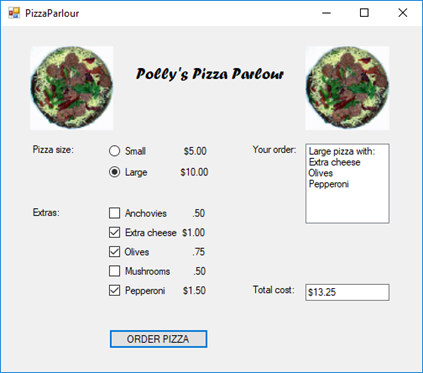
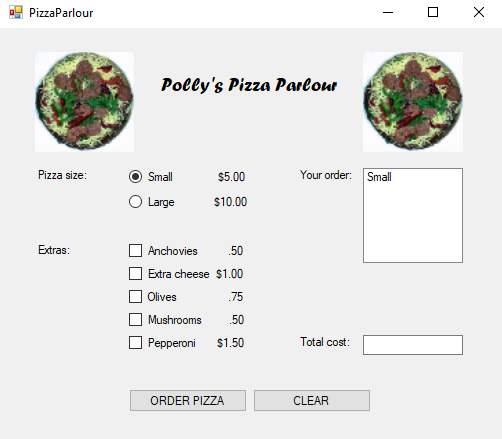
update

diff --git a/lecture-notes/03-windows-forms-application.md b/lecture-notes/03-windows-forms-application.md
@@ -218,6 +218,8 @@ Write an application for use in a Pizza Parlour. The user enters his order, and 
 4. You should correctly display the order in a `ListBox` and compute the total and display it in a `TextBox`.
 5. When a new order is generated, the old order information should be cleared from the display.
 
+**Note:** You can generate a new order by clicking on a `Button` or dynamically as the user selects different options.
+
 # Formative Assessment Submission
 
 Push your code to your **GitHub** repository.
